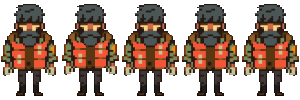
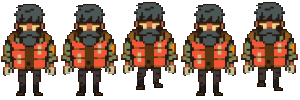
add animations

Changed region(s): [[0.18, 0.0, 1.0, 0.96]]

diff --git a/src/components/Game/Game.tsx b/src/components/Game/Game.tsx
@@ -298,11 +298,9 @@ const Game = () => {
         ctx.restore()
 
 
-        const frame = Math.round(new Date().getTime()/700) % 2
+        const frame = getKey('ArrowDown')? Math.round(new Date().getTime()/150) % 4 : Math.round(new Date().getTime()/500) % 2
 
-
-
-        ctx.drawImage(guyImg, 61*frame, 0 ,60, 100, -70,-185, 60*2, 100*2,);
+        ctx.drawImage(guyImg, (getKey('ArrowDown') ? 60 : 0) + 60*frame, 0 ,60, 100, -70,-185, 60*2, 100*2,);
 
 
         ctx.translate(-10, 0)
@@ -385,7 +383,7 @@ const Game = () => {
 
     return <div className="Game">
 
-    <audio src="/audio/music_jeu.mp3" loop={true} autoPlay={true} />
+    {/* <audio src="/audio/music_jeu.mp3" loop={true} autoPlay={true} /> */}
 
         <div className="hours" ref={hourRef}>01h00</div>
 
